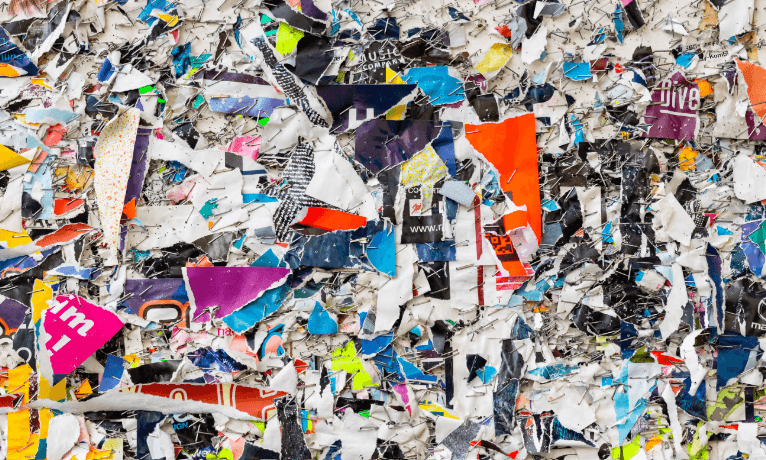
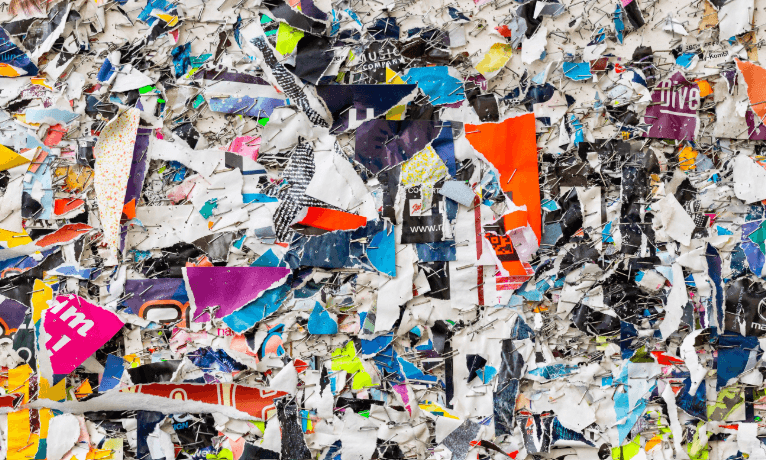
Deployed new version of the page to production

diff --git a/docs/js/main.js b/docs/js/main.js
@@ -1,2 +1,2 @@
-console.log(">> Ready :)");const P=document.querySelector("#magazineDesign"),F=document.querySelector("#economyDesign"),M=document.querySelector("#newspaperDesign"),i=document.querySelector(".preview__article"),a=document.querySelector(".preview__article--div--containerImg--img"),H=e=>{const t=document.querySelectorAll(".js_collapsible");for(const s of t){const o=s.closest("section").querySelector(".js-share-angles");s!==e&&(s.classList.add("collapsed"),l(o,!1))}},l=(e,t=!0)=>{t?e.classList.add("rotated"):e.classList.remove("rotated")},u=(e,t)=>{e.classList.contains("collapsed")?(H(e),e.classList.remove("collapsed"),l(t,!0)):(e.classList.add("collapsed"),l(t,!1))},d=e=>{const t=["type-sensacionalist","type-economist","type-generalist"];i.classList.forEach(o=>{t.includes(o)&&i.classList.remove(o)}),i.classList.add("preview__article",e);const s=localStorage.getItem("imagePreview"),n=h.files.length>0;e==="type-sensacionalist"?a.src=n?s:"/images/img_preview_sensacionalist.png":e==="type-economist"?a.src=n?s:"/images/img_preview_economy.png":e==="type-generalist"&&(a.src=n?s:"images/img_preview_generalist.png")};P.addEventListener("click",()=>d("type-sensacionalist"));F.addEventListener("click",()=>d("type-economist"));M.addEventListener("click",()=>d("type-generalist"));const R=document.querySelector(".js_design_button"),N=document.querySelector(".js_design_form"),A=document.querySelector("#angleDesign");R.addEventListener("click",e=>{e.preventDefault(),u(N,A)});const $=document.querySelector(".js-fill-button"),C=document.querySelector(".js-form-section"),m=document.querySelector("#newsHeadline"),g=document.querySelector("#newsSubtitle"),p=document.querySelector("#message"),v=document.querySelector("#publicationNumber"),_=document.querySelector(".js_title"),f=document.querySelector(".js_subtitle"),L=document.querySelector(".js_description"),y=document.querySelector("#publicationDate"),q=document.querySelector(".js_date"),w=document.querySelector(".js_edition"),h=document.querySelector("#file"),c=document.querySelector(".js_previewImg"),z=document.querySelector("#angleFill"),b="Título",D="Subtítulo",I="Fecha",j="Nº de edición",E="Lorem ipsum dolor sit, amet consectetur adipisicing elit. Quia aperiam fuga tempore? Debitis quo necessitatibus tenetur laborum. Totam, eaque, sapiente dolor eum qui sint rem quo fuga, iste illo similique?",r=document.querySelector(".js_image_miniature");h.addEventListener("change",e=>{if(e.target.files.length>0){const t=e.target.files[0],s=new FileReader;s.onload=n=>{c.src=n.target.result,r.style.backgroundImage=`url("${n.target.result}")`,localStorage.setItem("imagePreview",n.target.result)},s.readAsDataURL(t)}else i.classList.contains("type-sensacionalist")?(c.src="/images/img_preview_sensacionalist.png",r.style.backgroundImage="url('/images/img_preview_sensacionalist.png')"):i.classList.contains("type-economist")?(c.src="/images/img_preview_economy.png",r.style.backgroundImage="url('/images/img_preview_economy.png')"):i.classList.contains("type-generalist")?(c.src="/images/img_preview_generalist.png",r.style.backgroundImage="url('/images/img_preview_generalist.png')"):c.src="./images/img_preview_generalist.png"});v.addEventListener("change",e=>{const t=v.value;w.innerHTML=t.trim()===""||t==="0"?j:t});y.addEventListener("change",e=>{const t=y.value;q.innerHTML=t.trim()===""?I:t});$.addEventListener("click",e=>{e.preventDefault(),u(C,z)});m.addEventListener("input",e=>{const t=m.value;_.innerHTML=t.trim()===""?b:t});g.addEventListener("input",e=>{const t=g.value;f.innerHTML=t.trim()===""?D:t});p.addEventListener("input",e=>{const t=p.value;L.innerHTML=t.trim()===""?E:t});localStorage.getItem("imagePreview")?localStorage.getItem("imagePreview"):localStorage.setItem("imagePreview","");const U="https://dev.adalab.es/api/info/data",S="https://dev.adalab.es/api/info",O=document.querySelector(".js_share_button"),x=document.querySelector(".js_share_card"),T=document.querySelector(".js_button_twitter"),K=document.querySelector("#angleShare"),k=document.querySelector(".js_share_link"),G=document.querySelector("#newsHeadline"),J=document.querySelector("#newsSubtitle"),Q=document.querySelector("#message"),V=document.querySelector("#publicationDate"),W=document.querySelector("#publicationNumber"),B=document.querySelector("#magazineDesign"),X=document.querySelector("#economyDesign"),Y=document.querySelector("#newspaperDesign"),Z=(e,t)=>{const s={method:"POST",headers:{"Content-Type":"application/json"},body:JSON.stringify(e)};fetch(U,s).then(n=>n.json()).then(n=>{if(n.success!==!0){console.log("Error",n.error);return}t.innerHTML=`${S}/${n.infoID}`,t.href=`${S}/${n.infoID}`,T.classList.remove("collapsed")})};O.addEventListener("click",e=>{e.preventDefault(),x.classList.toggle("collapsed");const t={field1:"1",field2:G.value,field3:J.value,field4:Q.value,field5:V.value,field6:W.value,field7:B.checked,field8:X.checked,field9:Y.checked,photo:localStorage.getItem("imagePreview")};Z(t,k)});const ee=document.querySelector(".js_share_title"),te=document.querySelector(".js_share_content");ee.addEventListener("click",e=>{e.preventDefault(),u(te,K)});T.addEventListener("click",e=>{e.preventDefault();const t="¡Atento a esta noticia!",s=k.href,o=`https://twitter.com/intent/tweet?text=${t}&url=${s}&hashtags=adalaber`;window.open(o,"_blank")});const ne=document.querySelector(".js_btnReset"),se=document.querySelector(".js_formFill");ne.addEventListener("click",()=>{se.reset(),_.innerHTML=b,f.innerHTML=D,L.innerHTML=E,q.innerHTML=I,w.innerHTML=j,c.src="/images/img_preview_generalist.png",i.classList.length>1&&(i.className="",i.classList.add("preview__article")),localStorage.removeItem("imagePreview")});
+console.log(">> Ready :)");const P=document.querySelector("#magazineDesign"),F=document.querySelector("#economyDesign"),M=document.querySelector("#newspaperDesign"),i=document.querySelector(".preview__article"),a=document.querySelector(".preview__article--div--containerImg--img"),H=e=>{const t=document.querySelectorAll(".js_collapsible");for(const s of t){const o=s.closest("section").querySelector(".js-share-angles");s!==e&&(s.classList.add("collapsed"),l(o,!1))}},l=(e,t=!0)=>{t?e.classList.add("rotated"):e.classList.remove("rotated")},u=(e,t)=>{e.classList.contains("collapsed")?(H(e),e.classList.remove("collapsed"),l(t,!0)):(e.classList.add("collapsed"),l(t,!1))},d=e=>{const t=["type-sensacionalist","type-economist","type-generalist"];i.classList.forEach(o=>{t.includes(o)&&i.classList.remove(o)}),i.classList.add("preview__article",e);const s=localStorage.getItem("imagePreview"),n=h.files.length>0;e==="type-sensacionalist"?a.src=n?s:"/images/img_preview_sensacionalist.png":e==="type-economist"?a.src=n?s:"/images/img_preview_economy.png":e==="type-generalist"&&(a.src=n?s:"images/img_preview_generalist.png")};P.addEventListener("click",()=>d("type-sensacionalist"));F.addEventListener("click",()=>d("type-economist"));M.addEventListener("click",()=>d("type-generalist"));const R=document.querySelector(".js_design_button"),N=document.querySelector(".js_design_form"),A=document.querySelector("#angleDesign");R.addEventListener("click",e=>{e.preventDefault(),u(N,A)});const $=document.querySelector(".js-fill-button"),C=document.querySelector(".js-form-section"),m=document.querySelector("#newsHeadline"),g=document.querySelector("#newsSubtitle"),p=document.querySelector("#message"),v=document.querySelector("#publicationNumber"),_=document.querySelector(".js_title"),f=document.querySelector(".js_subtitle"),L=document.querySelector(".js_description"),y=document.querySelector("#publicationDate"),q=document.querySelector(".js_date"),w=document.querySelector(".js_edition"),h=document.querySelector("#file"),c=document.querySelector(".js_previewImg"),z=document.querySelector("#angleFill"),b="Título",D="Subtítulo",I="Fecha",j="Nº de edición",E="Lorem ipsum dolor sit, amet consectetur adipisicing elit. Quia aperiam fuga tempore? Debitis quo necessitatibus tenetur laborum. Totam, eaque, sapiente dolor eum qui sint rem quo fuga, iste illo similique?",r=document.querySelector(".js_image_miniature");h.addEventListener("change",e=>{if(e.target.files.length>0){const t=e.target.files[0],s=new FileReader;s.onload=n=>{c.src=n.target.result,r.style.backgroundImage=`url("${n.target.result}")`,localStorage.setItem("imagePreview",n.target.result)},s.readAsDataURL(t)}else i.classList.contains("type-sensacionalist")?(c.src="./images/img_preview_sensacionalist.png",r.style.backgroundImage="url('./images/img_preview_sensacionalist.png')"):i.classList.contains("type-economist")?(c.src="./images/img_preview_economy.png",r.style.backgroundImage="url('./images/img_preview_economy.png')"):i.classList.contains("type-generalist")?(c.src="./images/img_preview_generalist.png",r.style.backgroundImage="url('./images/img_preview_generalist.png')"):c.src="./images/img_preview_generalist.png"});v.addEventListener("change",e=>{const t=v.value;w.innerHTML=t.trim()===""||t==="0"?j:t});y.addEventListener("change",e=>{const t=y.value;q.innerHTML=t.trim()===""?I:t});$.addEventListener("click",e=>{e.preventDefault(),u(C,z)});m.addEventListener("input",e=>{const t=m.value;_.innerHTML=t.trim()===""?b:t});g.addEventListener("input",e=>{const t=g.value;f.innerHTML=t.trim()===""?D:t});p.addEventListener("input",e=>{const t=p.value;L.innerHTML=t.trim()===""?E:t});localStorage.getItem("imagePreview")?localStorage.getItem("imagePreview"):localStorage.setItem("imagePreview","");const U="https://dev.adalab.es/api/info/data",S="https://dev.adalab.es/api/info",O=document.querySelector(".js_share_button"),x=document.querySelector(".js_share_card"),T=document.querySelector(".js_button_twitter"),K=document.querySelector("#angleShare"),k=document.querySelector(".js_share_link"),G=document.querySelector("#newsHeadline"),J=document.querySelector("#newsSubtitle"),Q=document.querySelector("#message"),V=document.querySelector("#publicationDate"),W=document.querySelector("#publicationNumber"),B=document.querySelector("#magazineDesign"),X=document.querySelector("#economyDesign"),Y=document.querySelector("#newspaperDesign"),Z=(e,t)=>{const s={method:"POST",headers:{"Content-Type":"application/json"},body:JSON.stringify(e)};fetch(U,s).then(n=>n.json()).then(n=>{if(n.success!==!0){console.log("Error",n.error);return}t.innerHTML=`${S}/${n.infoID}`,t.href=`${S}/${n.infoID}`,T.classList.remove("collapsed")})};O.addEventListener("click",e=>{e.preventDefault(),x.classList.toggle("collapsed");const t={field1:"1",field2:G.value,field3:J.value,field4:Q.value,field5:V.value,field6:W.value,field7:B.checked,field8:X.checked,field9:Y.checked,photo:localStorage.getItem("imagePreview")};Z(t,k)});const ee=document.querySelector(".js_share_title"),te=document.querySelector(".js_share_content");ee.addEventListener("click",e=>{e.preventDefault(),u(te,K)});T.addEventListener("click",e=>{e.preventDefault();const t="¡Atento a esta noticia!",s=k.href,o=`https://twitter.com/intent/tweet?text=${t}&url=${s}&hashtags=adalaber`;window.open(o,"_blank")});const ne=document.querySelector(".js_btnReset"),se=document.querySelector(".js_formFill");ne.addEventListener("click",()=>{se.reset(),_.innerHTML=b,f.innerHTML=D,L.innerHTML=E,q.innerHTML=I,w.innerHTML=j,c.src="/images/img_preview_generalist.png",i.classList.length>1&&(i.className="",i.classList.add("preview__article")),localStorage.removeItem("imagePreview")});
[1 lines of base64/hex data omitted]
